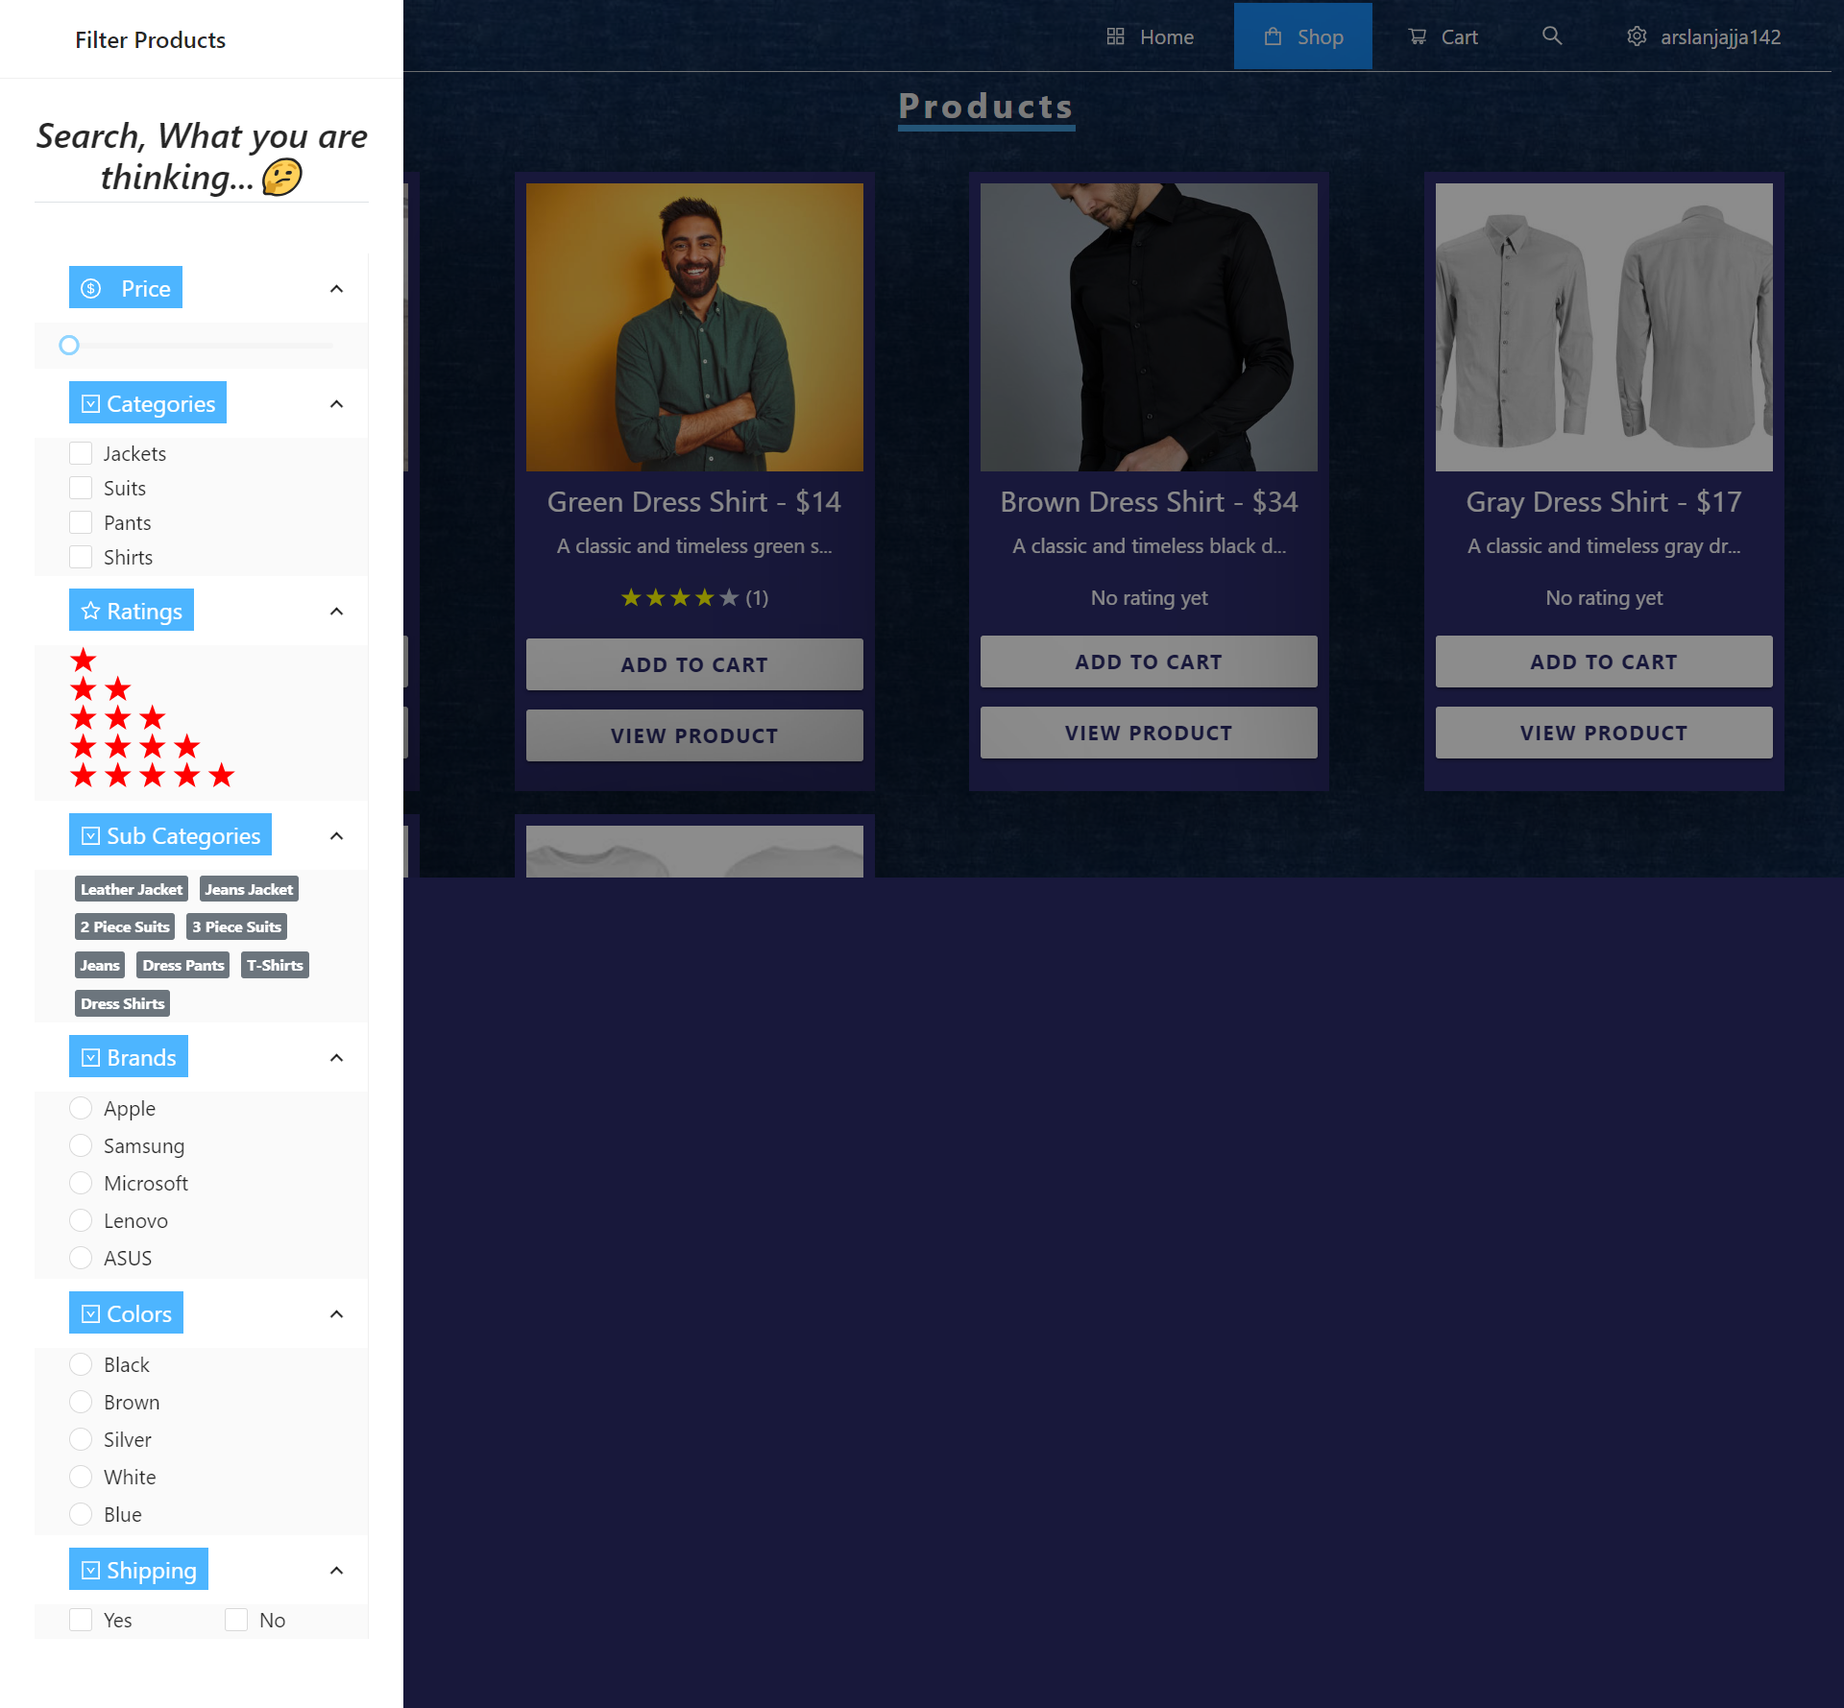
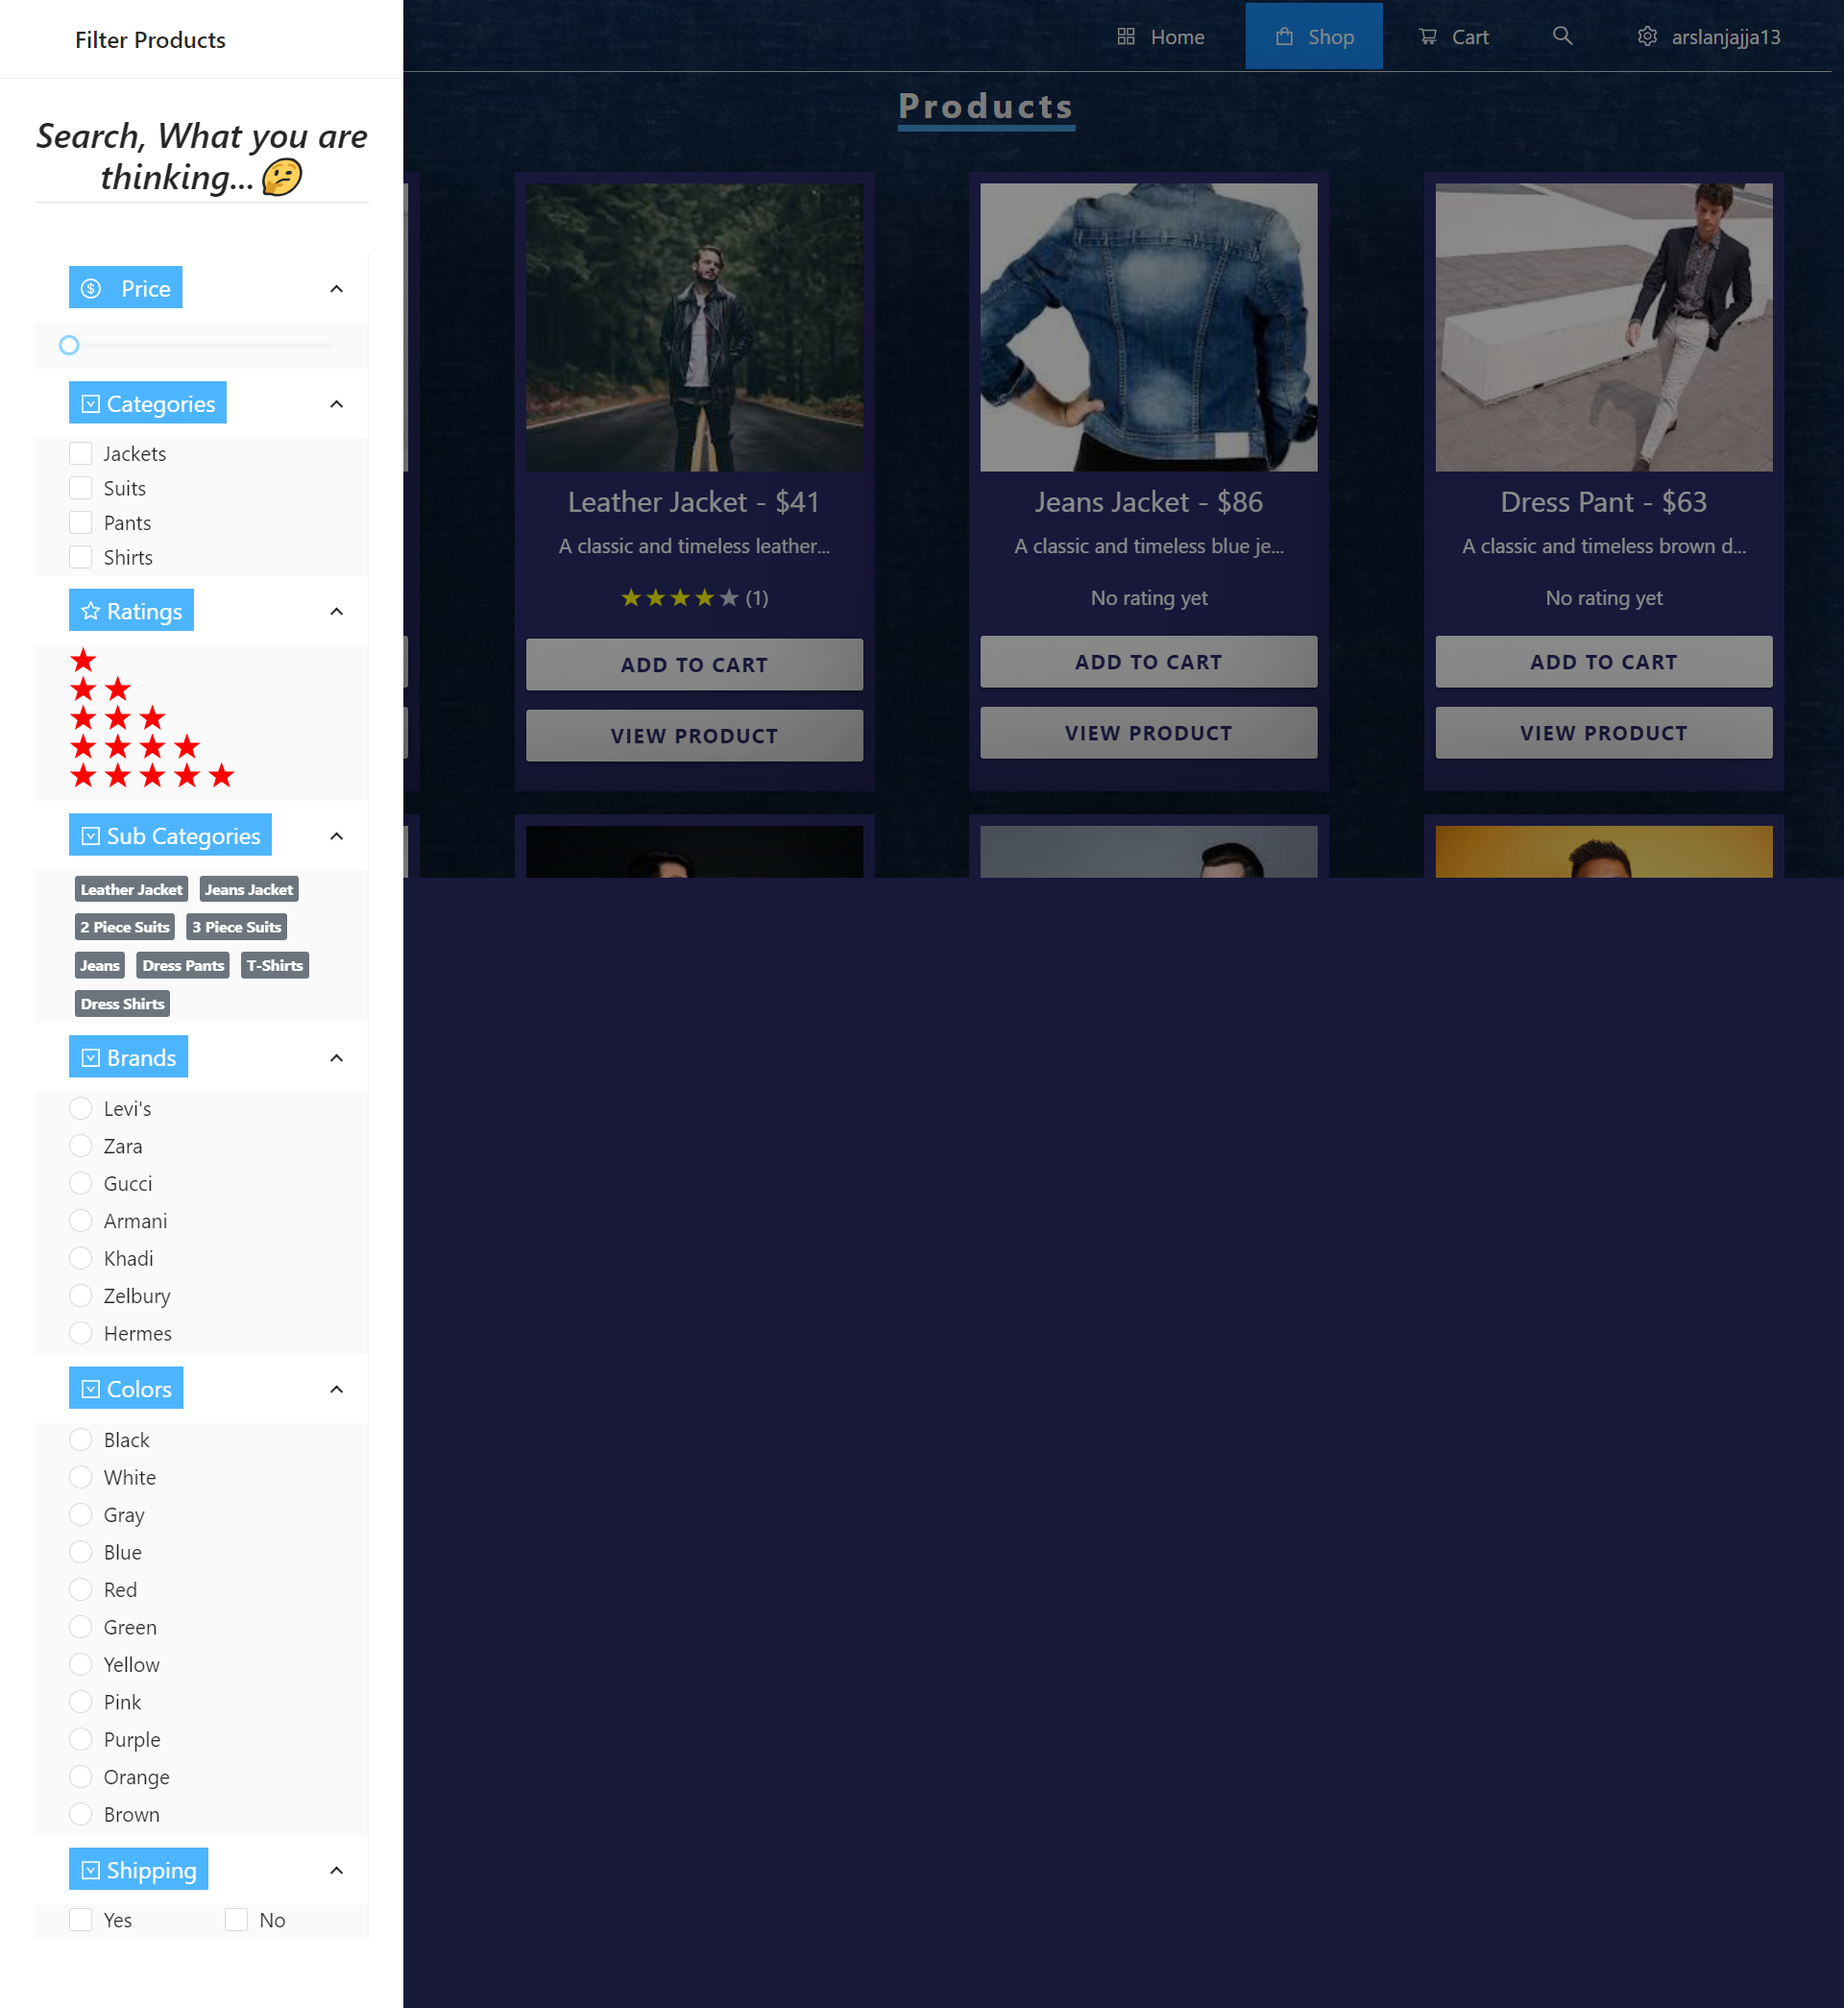
added updated brands and colors in filtering feature

diff --git a/client/src/pages/Shop.js b/client/src/pages/Shop.js
@@ -35,18 +35,26 @@ const Shop = () => {
   const [color, setColor] = useState("");
   const [shipping, setShipping] = useState("");
   const [brands, setBrands] = useState([
-    "Apple",
-    "Samsung",
-    "Microsoft",
-    "Lenovo",
-    "ASUS",
+    "Levi's",
+    "Zara",
+    "Gucci",
+    "Armani",
+    "Khadi",
+    "Zelbury",
+    "Hermes",
   ]);
   const [colors, setColors] = useState([
     "Black",
-    "Brown",
-    "Silver",
     "White",
+    "Gray",
     "Blue",
+    "Red",
+    "Green",
+    "Yellow",
+    "Pink",
+    "Purple",
+    "Orange",
+    "Brown",
   ]);
   const [open, setOpen] = useState(false);
   const dimensions = useWindowDimensions();
